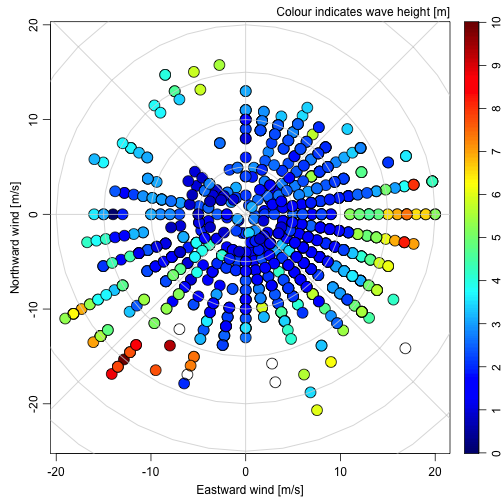
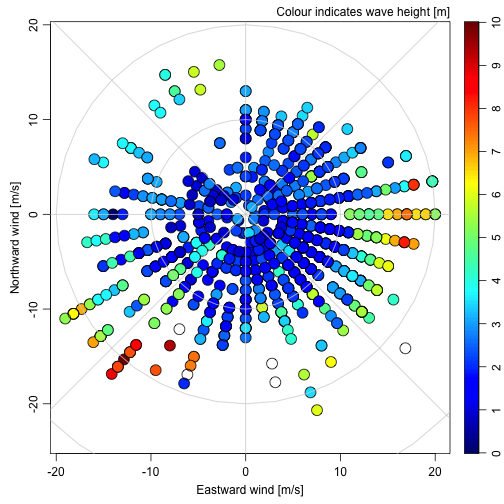
.

diff --git a/_site/r/2016/02/09/noreaster.html b/_site/r/2016/02/09/noreaster.html
@@ -229,7 +229,7 @@ drawPalette<span class="p">(</span>zlim<span class="o">=</span>cm<span class="o"
 plot<span class="p">(</span>windU<span class="p">,</span> windV<span class="p">,</span> asp<span class="o">=</span><span class="m">1</span><span class="p">,</span> cex<span class="o">=</span><span class="m">2</span><span class="p">,</span> pch<span class="o">=</span><span class="m">21</span><span class="p">,</span> bg<span class="o">=</span>cm<span class="o">$</span>zcol<span class="p">,</span>
      xlab<span class="o">=</span><span class="s">&quot;Eastward wind [m/s]&quot;</span><span class="p">,</span> ylab<span class="o">=</span><span class="s">&quot;Northward wind [m/s]&quot;</span><span class="p">)</span>
 mtext<span class="p">(</span><span class="s">&quot;Colour indicates wave height [m]&quot;</span><span class="p">,</span> side<span class="o">=</span><span class="m">3</span><span class="p">,</span> line<span class="o">=</span><span class="m">0.25</span><span class="p">,</span> adj<span class="o">=</span><span class="m">1</span><span class="p">)</span>
-<span class="kr">for</span> <span class="p">(</span>ring <span class="kr">in</span> <span class="kp">seq</span><span class="p">(</span><span class="m">5</span><span class="p">,</span> <span class="m">30</span><span class="p">,</span> <span class="m">5</span><span class="p">))</span> <span class="p">{</span>
+<span class="kr">for</span> <span class="p">(</span>ring <span class="kr">in</span> <span class="kp">seq</span><span class="p">(</span><span class="m">10</span><span class="p">,</span> <span class="m">30</span><span class="p">,</span> <span class="m">10</span><span class="p">))</span> <span class="p">{</span>
     circleX <span class="o">&lt;-</span> ring <span class="o">*</span> <span class="kp">cos</span><span class="p">(</span><span class="kp">seq</span><span class="p">(</span><span class="m">0</span><span class="p">,</span> <span class="m">2</span><span class="o">*</span><span class="kc">pi</span><span class="p">,</span> <span class="kc">pi</span><span class="o">/</span><span class="m">20</span><span class="p">))</span>
     circleY <span class="o">&lt;-</span> ring <span class="o">*</span> <span class="kp">sin</span><span class="p">(</span><span class="kp">seq</span><span class="p">(</span><span class="m">0</span><span class="p">,</span> <span class="m">2</span><span class="o">*</span><span class="kc">pi</span><span class="p">,</span> <span class="kc">pi</span><span class="o">/</span><span class="m">20</span><span class="p">))</span>
     lines<span class="p">(</span>circleX<span class="p">,</span> circleY<span class="p">,</span> col<span class="o">=</span><span class="s">&#39;lightgray&#39;</span><span class="p">)</span>

diff --git a/_posts/2016-02-09-noreaster.md b/_posts/2016-02-09-noreaster.md
@@ -104,7 +104,7 @@ drawPalette(zlim=cm$zlim, col=cm$col)
 plot(windU, windV, asp=1, cex=2, pch=21, bg=cm$zcol,
      xlab="Eastward wind [m/s]", ylab="Northward wind [m/s]")
 mtext("Colour indicates wave height [m]", side=3, line=0.25, adj=1)
-for (ring in seq(5, 30, 5)) {
+for (ring in seq(10, 30, 10)) {
     circleX <- ring * cos(seq(0, 2*pi, pi/20))
     circleY <- ring * sin(seq(0, 2*pi, pi/20))
     lines(circleX, circleY, col='lightgray')
